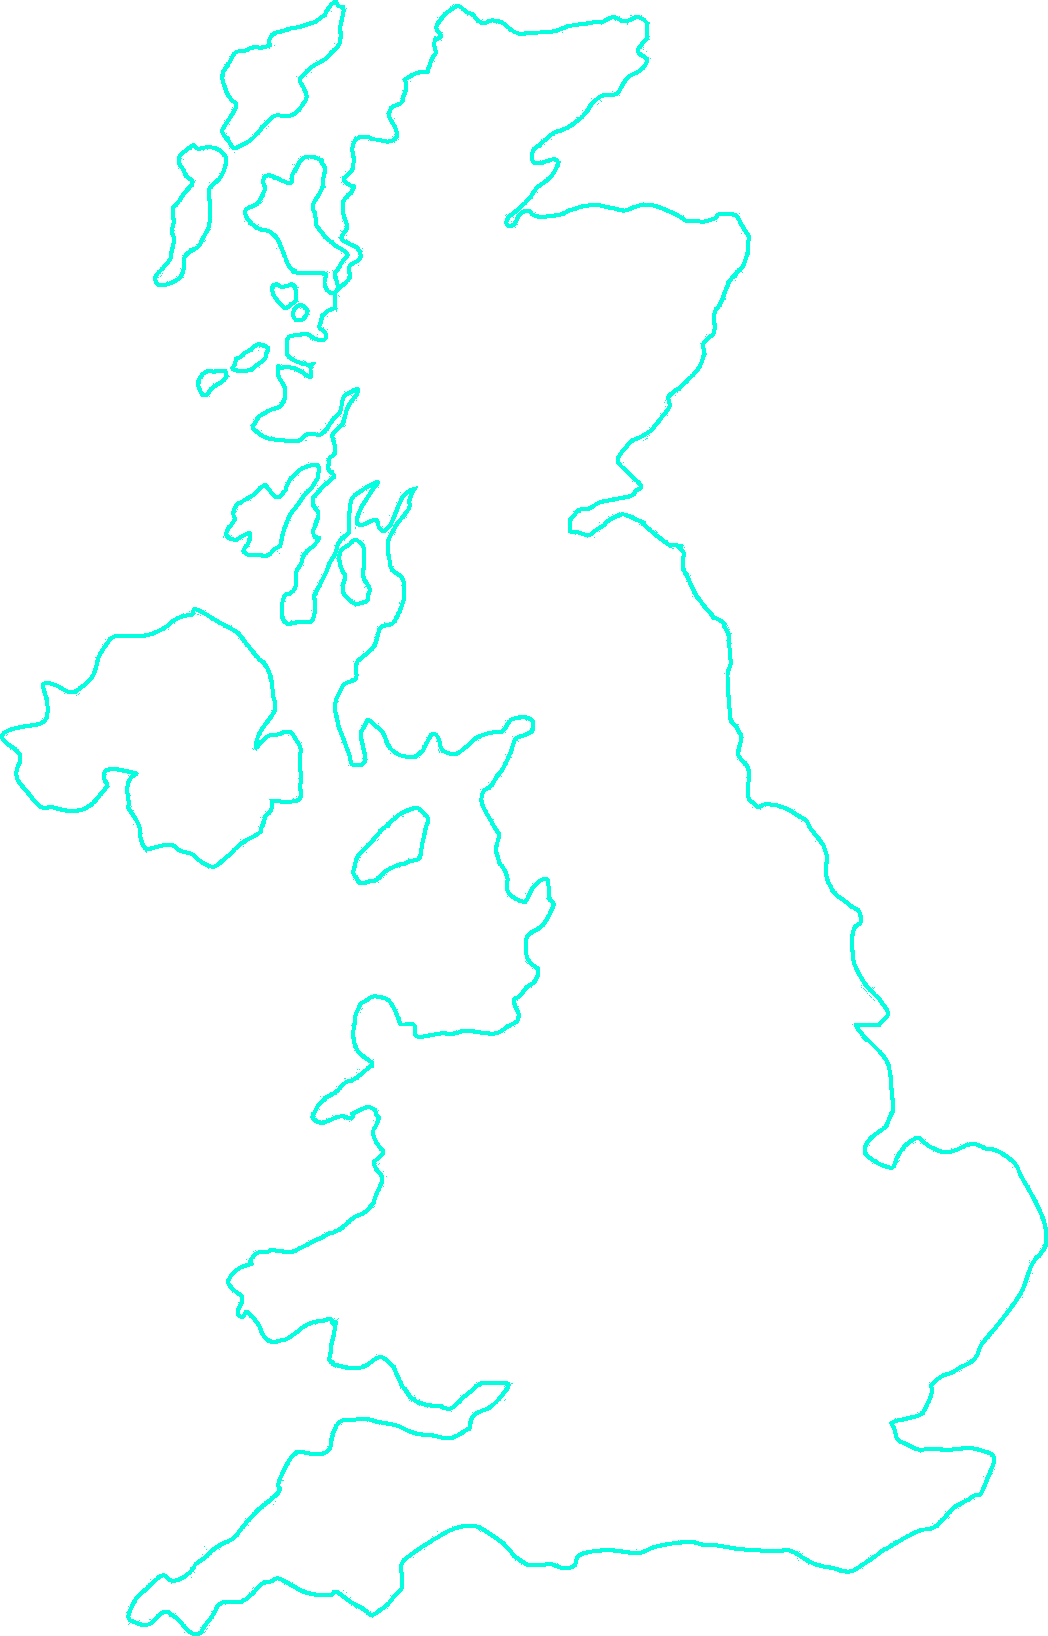
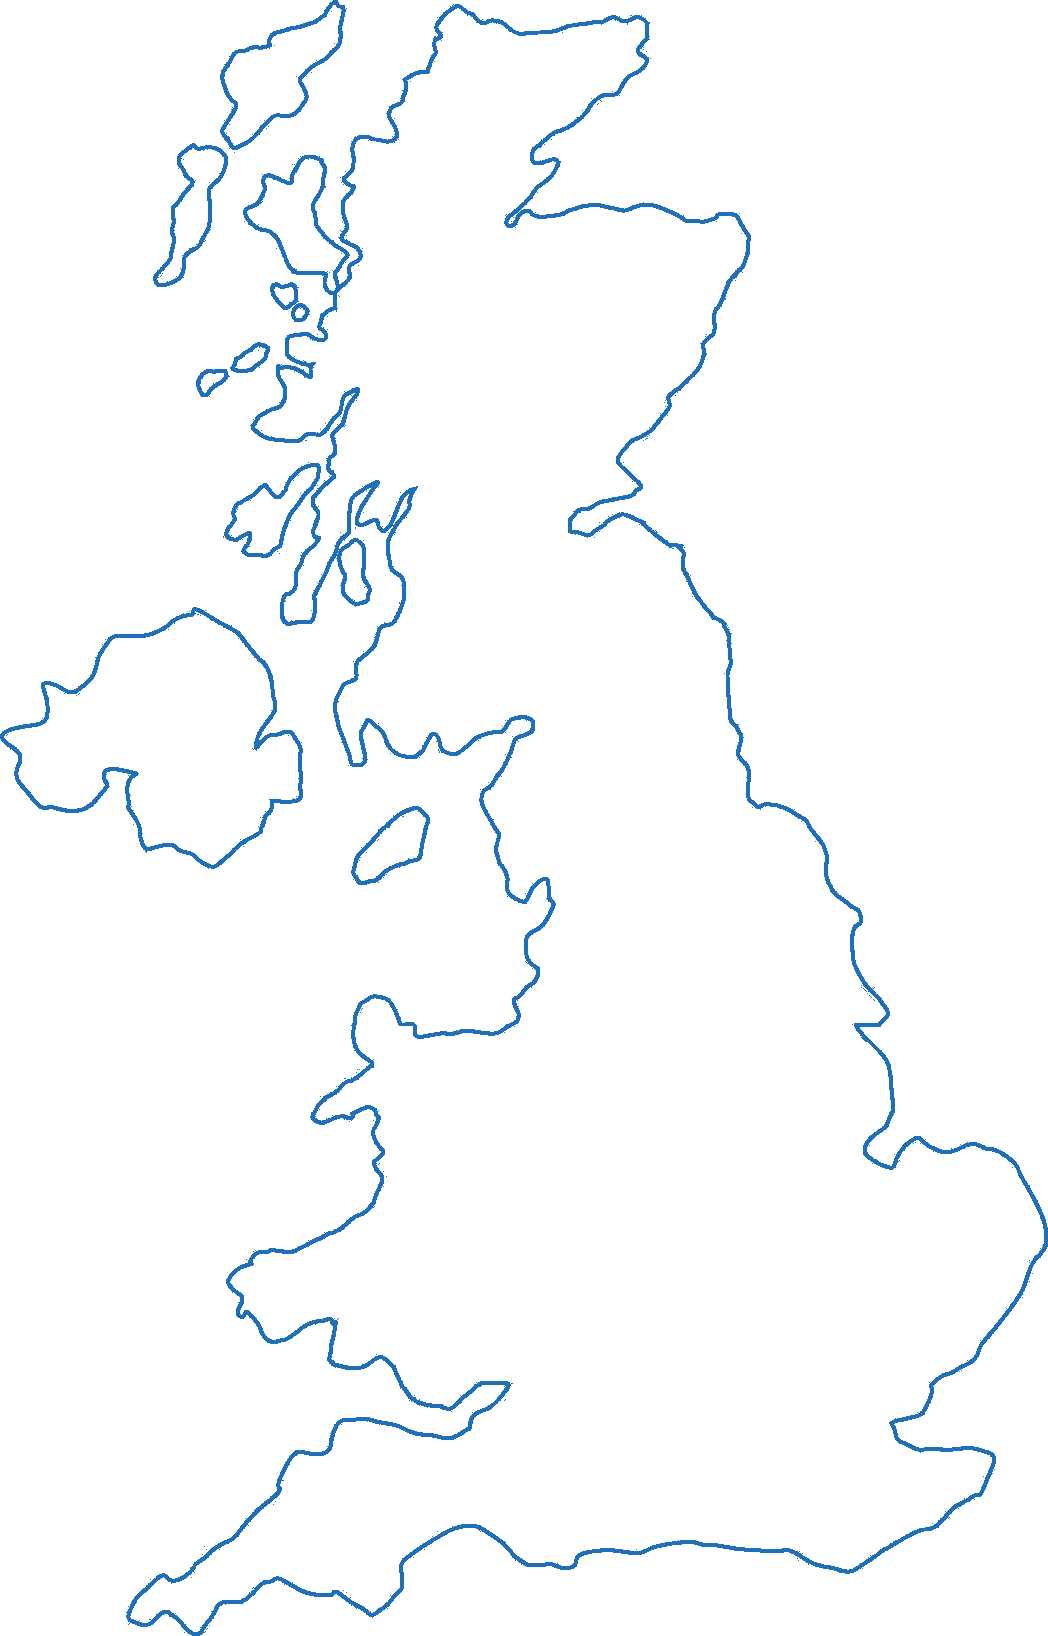
fix: use same blue in dark mode, remove teal from button and map

diff --git a/docs/.vitepress/theme/custom.css b/docs/.vitepress/theme/custom.css
@@ -1,4 +1,4 @@
-/* Companies House brand colours */
+/* Companies House brand colours — same blue in light and dark */
 
 :root {
   --vp-c-brand-1: #1f70b9;
@@ -6,22 +6,21 @@
   --vp-c-brand-3: #155496;
   --vp-c-brand-soft: rgba(31, 112, 185, 0.12);
 
-  /* Hero name: solid brand blue in both modes */
   --vp-home-hero-name-color: #1f70b9;
 }
 
 .dark {
-  --vp-c-brand-1: #03ffe0;
-  --vp-c-brand-2: #02e8cc;
-  --vp-c-brand-3: #02cfb6;
-  --vp-c-brand-soft: rgba(3, 255, 224, 0.12);
+  --vp-c-brand-1: #1f70b9;
+  --vp-c-brand-2: #1a62a8;
+  --vp-c-brand-3: #155496;
+  --vp-c-brand-soft: rgba(31, 112, 185, 0.2);
 
-  /* Hero name stays the same blue even in dark mode */
   --vp-home-hero-name-color: #1f70b9;
 }
 
-/* Buttons */
-:root {
+/* Buttons — same blue, white text, both modes */
+:root,
+.dark {
   --vp-button-brand-border: transparent;
   --vp-button-brand-text: #ffffff;
   --vp-button-brand-bg: #1f70b9;
@@ -31,13 +30,6 @@
   --vp-button-brand-active-border: transparent;
   --vp-button-brand-active-text: #ffffff;
   --vp-button-brand-active-bg: #155496;
-}
-
-.dark {
-  --vp-button-brand-text: #000000;
-  --vp-button-brand-bg: #03ffe0;
-  --vp-button-brand-hover-bg: #02e8cc;
-  --vp-button-brand-active-bg: #02cfb6;
 }
 
 /* Hero image: no default background circle */